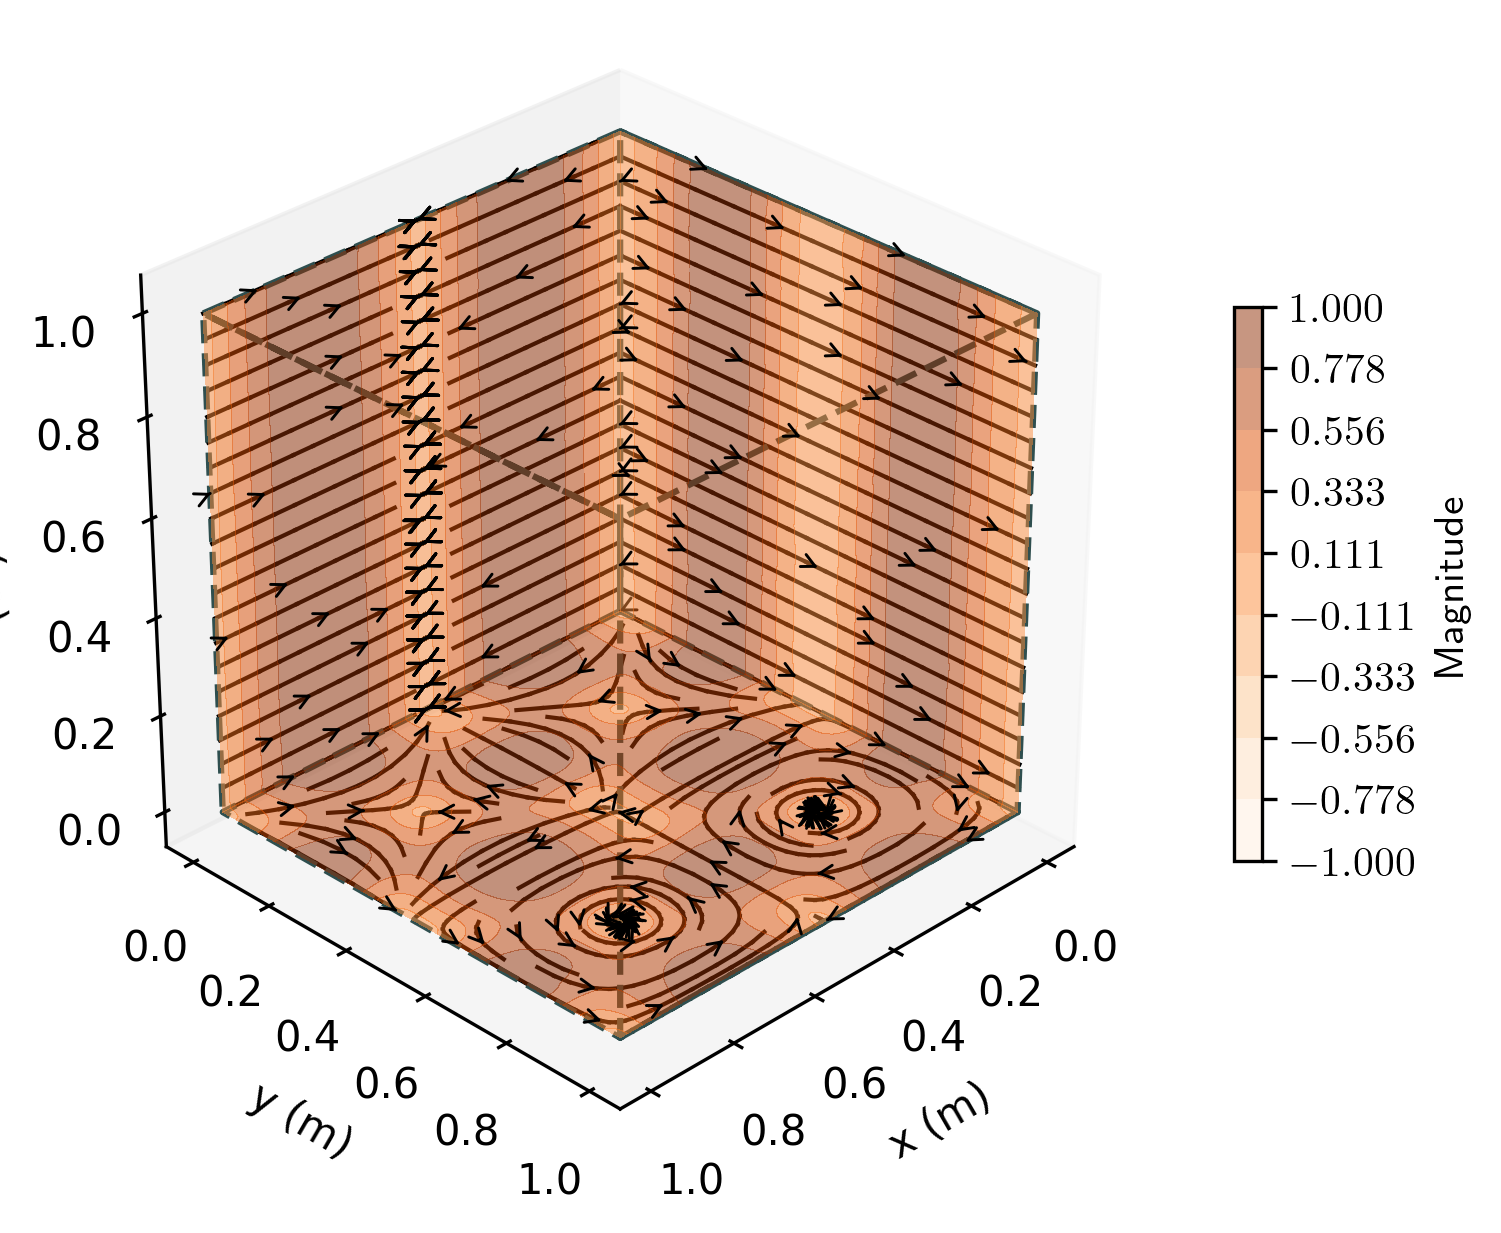
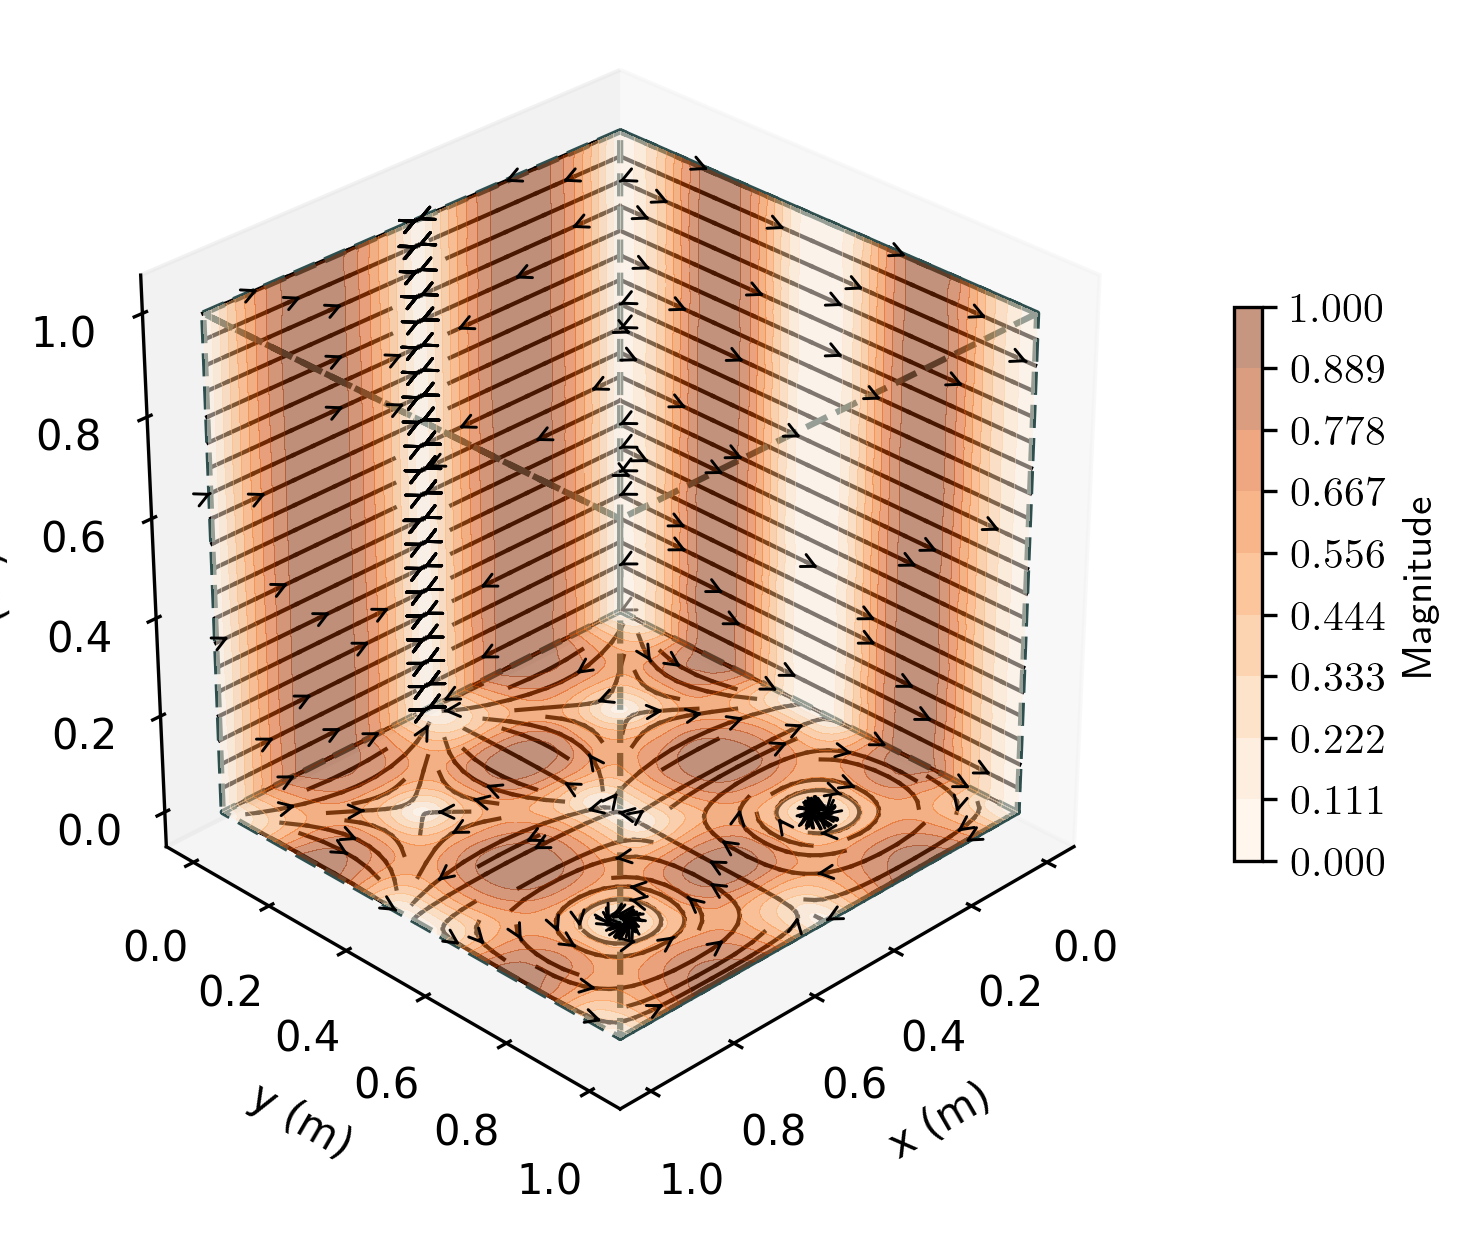
fixed arrows

diff --git a/streamslice_func.py b/streamslice_func.py
@@ -299,7 +299,7 @@ if __name__ == '__main__':
     plot_contours = True
     # plot projections
     ax, q = plot_projections(grid, vectorial_quantity,
-                             colormax=(-1, 1), ax=ax,
+                             colormax=(0, 1), ax=ax,
                              contours = plot_contours)
     if plot_contours:
         # add colorbar

diff --git a/README.md b/README.md
@@ -24,7 +24,6 @@ The function returns the matplotlib axis object.
 ## Example
 
 ```
-
 # example of how to use the function
 # create grid
 x = np.linspace(0, 1, 10)
@@ -34,7 +33,7 @@ X, Y, Z = np.meshgrid(x, y, z)
 grid = np.stack((X.ravel(), Y.ravel(), Z.ravel()), axis=-1)
 # create vector field
 u = np.sin(2 * np.pi * X) * np.cos(2 * np.pi * Y) * np.ones_like(Z)
-v = np.cos(2 * np.pi * X) * np.sin(2 * np.pi * Y) * np.ones_like(Z)
+v = np.cos(2 * np.pi * X) * (np.sin(2 * np.pi * Y))**2 * np.ones_like(Z)
 w = np.zeros_like(Z)
 
 vectorial_quantity = np.stack((u.ravel(), v.ravel(), w.ravel()), axis=-1)
@@ -44,7 +43,7 @@ ax = fig.add_subplot(111, projection='3d')
 plot_contours = True
 # plot projections
 ax, q = plot_projections(grid, vectorial_quantity,
-                         colormax=(-1, 1), ax=ax,
+                         colormax=(0, 1), ax=ax,
                          contours = plot_contours)
 if plot_contours:
     # add colorbar
@@ -52,7 +51,6 @@ if plot_contours:
     cbar.ax.set_ylabel('Magnitude')
 fig.show()
 ```
-
 ![Example plot with contour of magnitude](projection_contours.png)
 
 
